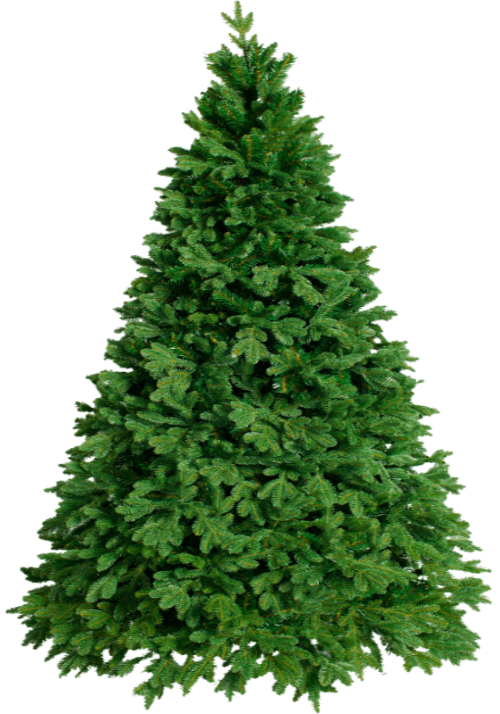
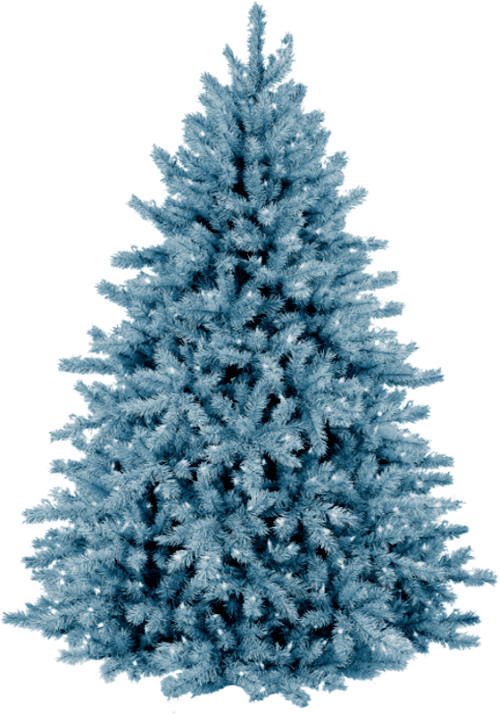
add a choice of background and Christmas tree

diff --git a/christmas-task/src/decoration.ts b/christmas-task/src/decoration.ts
@@ -1,0 +1,26 @@
+const trees = document.querySelectorAll<HTMLElement>('.tree-select');
+const tree = document.querySelector<HTMLImageElement>('.main-tree');
+const treeBg = document.querySelector<HTMLImageElement>('.tree');
+const backgrounds = document.querySelectorAll<HTMLElement>('.background');
+
+export const setTree = () => {
+    trees.forEach((el, i) =>
+        el.addEventListener('click', () => {
+            if (tree) {
+                tree.src = `./assets/tree/${i + 1}.png`;
+            }
+        })
+    );
+};
+
+export const setBackground = () => {
+    backgrounds.forEach((el, i) =>
+        el.addEventListener('click', () => {
+            if (treeBg) {
+                console.log(i + 1);
+
+                treeBg.style.backgroundImage = `url(./../assets/bg/${i + 1}.jpg)`;
+            }
+        })
+    );
+};

diff --git a/christmas-task/src/scss/style.scss b/christmas-task/src/scss/style.scss
@@ -593,7 +593,9 @@ footer {
     display: flex;
     justify-content: center;
     background-size: cover;
-    background-image: url('./../assets/bg/4.jpg');
+    background-repeat: no-repeat;
+    background-position: center;
+    background-image: url('./../assets/bg/1.jpg');
 }
 
 .sound-snow-btn {
@@ -667,7 +669,7 @@ footer {
         background-image: url('./../assets/tree/2.png');
     }
     &:nth-child(3) {
-        background-image: url('./../assets/tree/6.png');
+        background-image: url('./../assets/tree/3.png');
     }
     &:nth-child(4) {
         background-image: url('./../assets/tree/4.png');

diff --git a/christmas-task/src/index.ts b/christmas-task/src/index.ts
@@ -7,6 +7,8 @@ import ToysList from './toys-list';
 import { router } from './router';
 import { playAudio } from './music';
 import { createSnowFlake } from './snow';
+import { setTree } from './decoration';
+import { setBackground } from './decoration';
 const toys = new ToysList();
 
 const toToys = document.querySelector('.start-play');
@@ -19,6 +21,8 @@ const toToysBtn = document.querySelector('.switch-to-toys');
 
 playAudio();
 createSnowFlake();
+setTree();
+setBackground();
 
 init(toys);
 sorted(toys);
